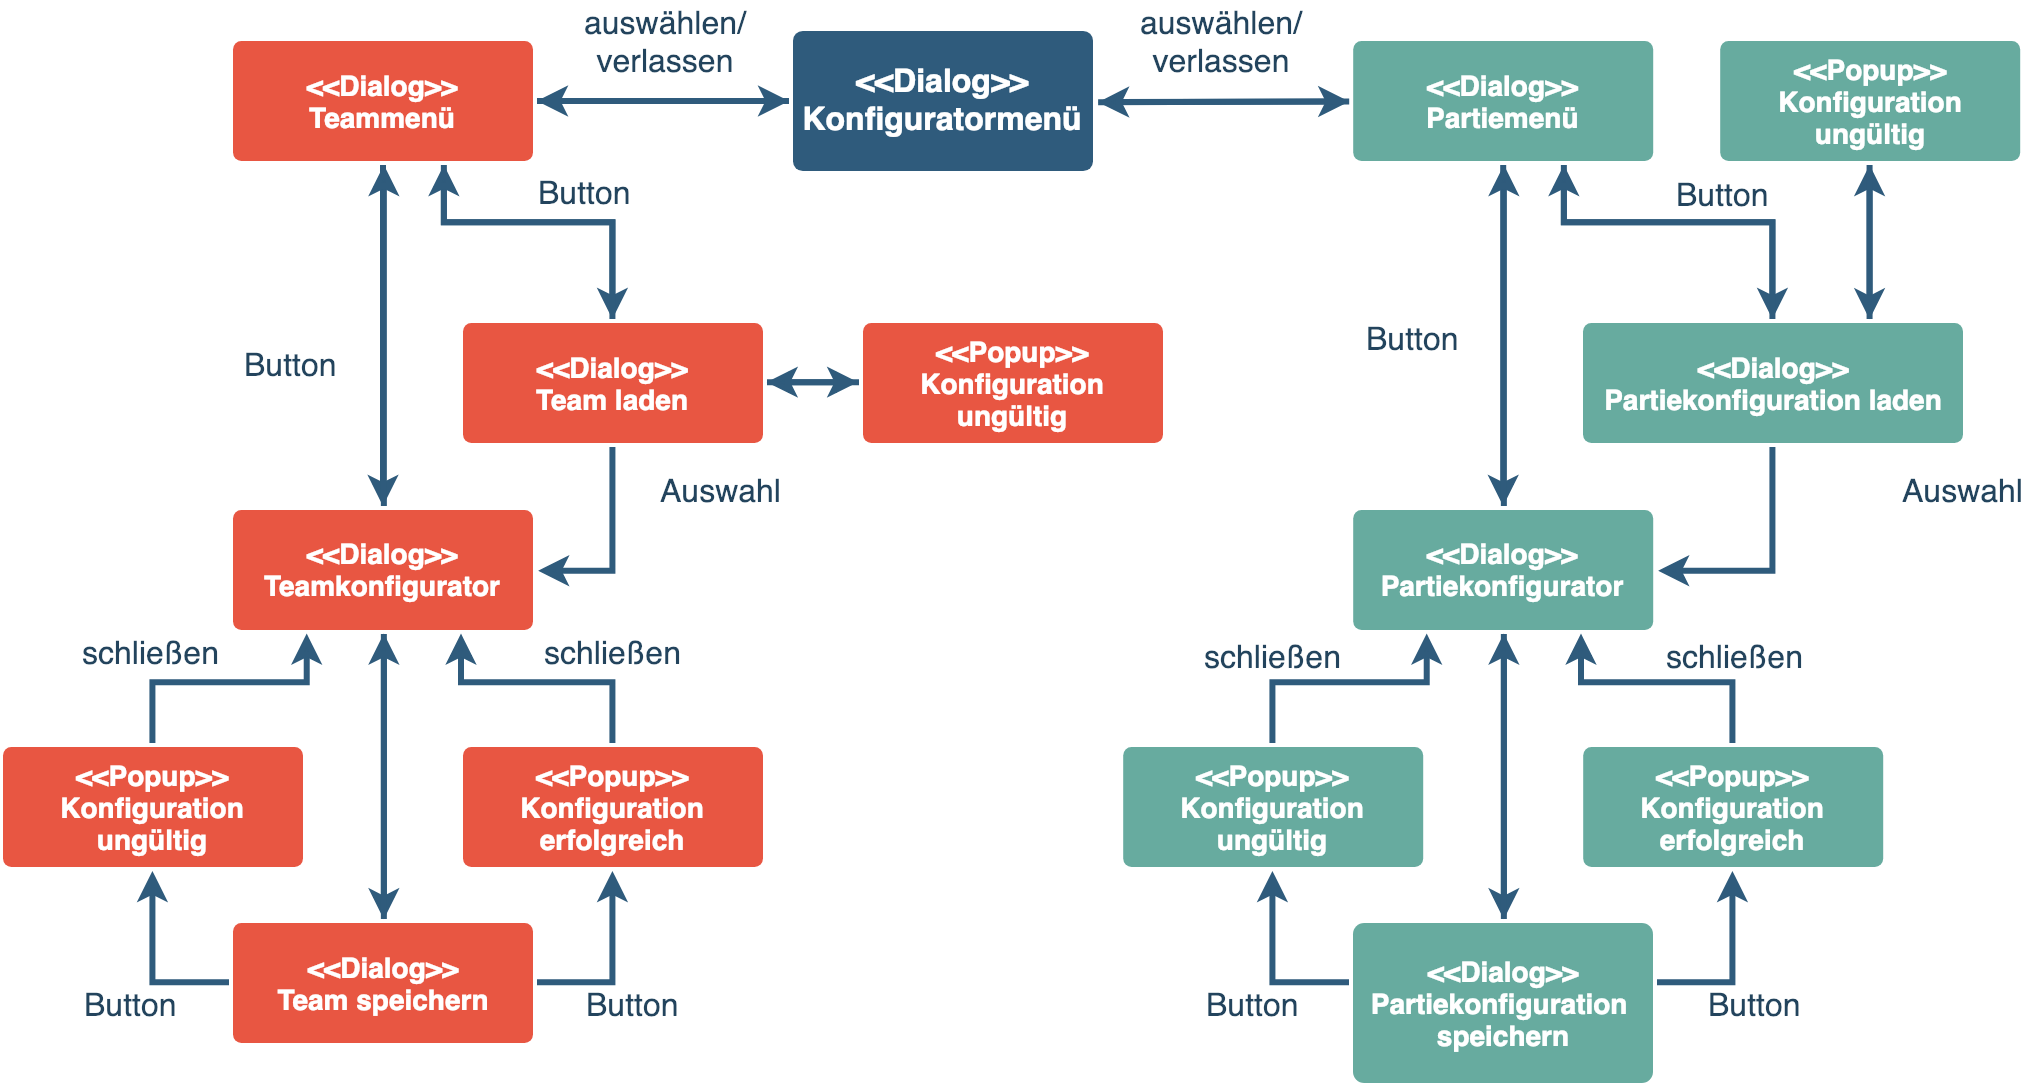
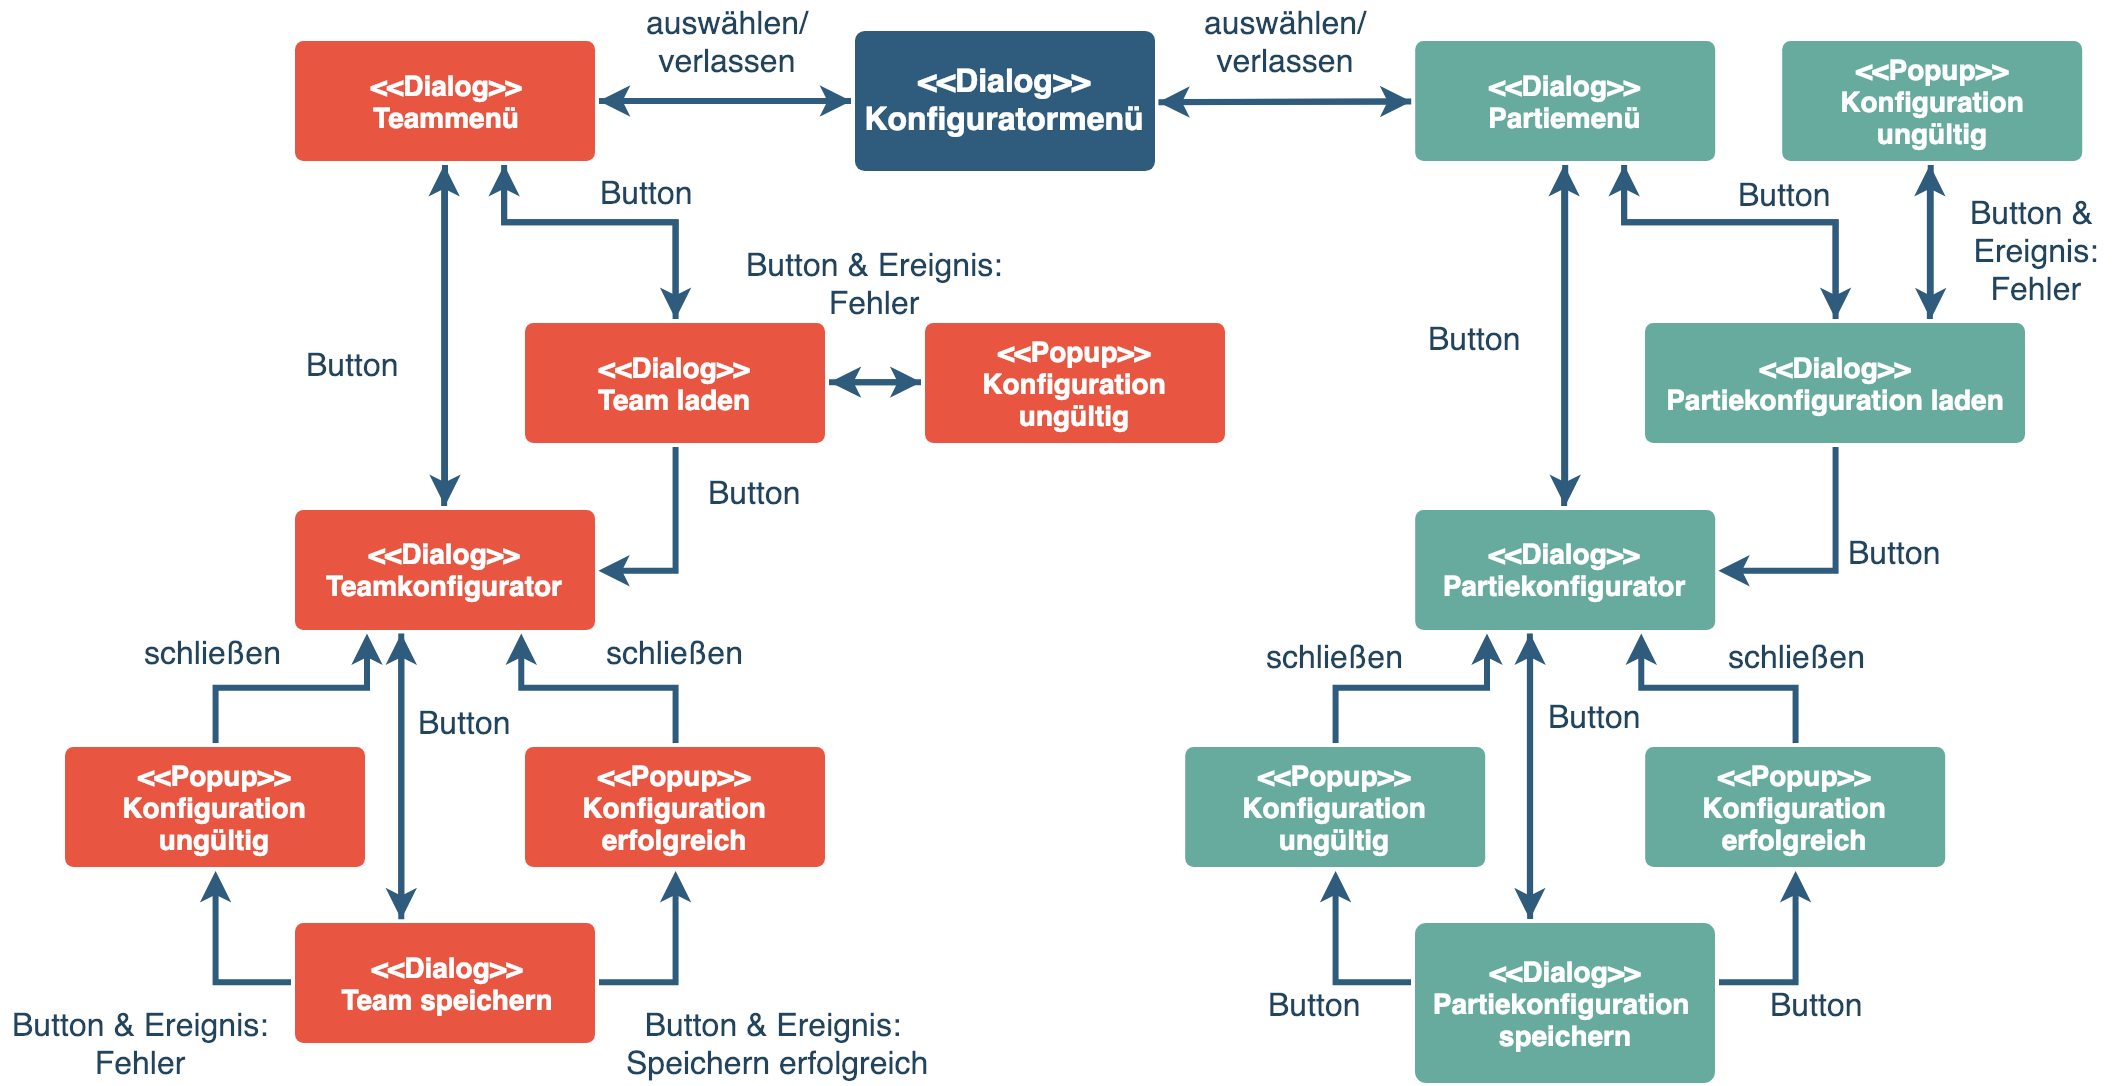
Verbesserungen von Paul eingearbeitet

diff --git a/Meilenstein03/GraphischeGestaltungKonfigurator.tex b/Meilenstein03/GraphischeGestaltungKonfigurator.tex
@@ -7,7 +7,7 @@
         \includegraphics[width=\textwidth/2]{images/konfiguratormenue}
     \end{figure}
 
-    Über das Konfiguratormenü kann eine Auswahl zwischen dem Teammnü und dem Partiemenü über die entsprechenden Buttons getroffen werden. Diese führen zu den Menüs der jeweiligen Konfiguratoren. Über den Button \textit{Verlassen} kann der Konfigurator verlassen werden.
+    Über das Konfiguratormenü kann eine Auswahl zwischen dem Teammenü und dem Partiemenü über die entsprechenden Buttons getroffen werden. Diese führen zu den Menüs der jeweiligen Konfiguratoren. Über den Button \textit{Verlassen} kann der Konfigurator verlassen werden.
 
     \subsubsection{Teammenü}
     \begin{figure}[H]
@@ -34,7 +34,7 @@
         \includegraphics[width=\textwidth]{images/teamkonfigurator}
     \end{figure}
 
-    Im Teamkonfigurator können alle Paramter eines Teams eingestellt werden. Team- und Spielernamen lassen sich durch ein Textfeld bearbeiten. Teamfarben sind über eine Farbauswahl einstellbar. Das Teamlogo lässt sich aus einer Liste vorhandener Logos auswählen. Die Kästen mit den Kreuzen dienen als Platzhalter für Icons, die die verschiedenen Fans und Spieler darstellen und somit unterscheidbar machen. Fans sowie Besen der Spieler sind über eine Dropdown-Auswahl einstellbar. Das Geschlecht der Spieler lässt sich über Radio-Buttons einstellen. Bei jeder Änderung werden die entsprechenden Bedingungen für eine gültige Konfiguration geprüft und der Nutzer erhält visuelles Feedback (z. B. in Form von roter Schriftfarbe in den entsprechenden Feldern). Über den Button \textit{Abbrechen} lässt sich der Konfigurator jederzeit verlassen. Ist eine gültige Auswahl eingestellt, kann die Konfiguration über \textit{Speichern} in einem separaten Speicherdialog persistiert werden.
+    Im Teamkonfigurator können alle Parameter eines Teams eingestellt werden. Team- und Spielernamen lassen sich durch ein Textfeld bearbeiten. Teamfarben sind über eine Farbauswahl einstellbar. Das Teamlogo lässt sich aus einer Liste vorhandener Logos auswählen. Die Kästen mit den Kreuzen dienen als Platzhalter für Icons, die die verschiedenen Fans und Spieler darstellen und somit unterscheidbar machen. Fans sowie Besen der Spieler sind über eine Dropdown-Auswahl einstellbar. Das Geschlecht der Spieler lässt sich über Radio-Buttons einstellen. Bei jeder Änderung werden die entsprechenden Bedingungen für eine gültige Konfiguration geprüft und der Nutzer erhält visuelles Feedback (z. B. in Form von roter Schriftfarbe in den entsprechenden Feldern). Über den Button \textit{Abbrechen} lässt sich der Konfigurator jederzeit verlassen. Ist eine gültige Auswahl eingestellt, kann die Konfiguration über \textit{Speichern} in einem separaten Speicherdialog persistiert werden.
 
     \subsubsection{Team bzw. Partiekonfiguration speichern}
 
@@ -45,7 +45,7 @@
 
     In diesem Dialog kann Dateiname und Speicherort der Konfiguration festgelegt werden. Der Button \textit{Abbrechen} bringt den Nutzer direkt zurück in den entsprechen Konfigurator. Durch Klicken auf den Button \textit{Speichern} wird die Datei mit dem gewählten Namen und Speicherort gespeichert.
 
-    Wurde versucht eine Konfiguration mit ungültigen Parametern zu speichern oder trat beim Speichervorgang irgend ein anderer Fehler auf, wird der Nutzer über dieses Popup darüber informiert. Der \textit{Ok}-Button führt zurück zum entsprechenden Konfigurator.
+    Wurde versucht eine Konfiguration mit ungültigen Parametern zu speichern oder trat beim Speichervorgang ein Fehler auf, wird der Nutzer über dieses Popup darüber informiert. Der \textit{Ok}-Button führt zurück zum entsprechenden Konfigurator.
 
     \subsubsection{Konfiguration erfolgreich}
 
@@ -63,7 +63,7 @@
         \includegraphics[width=\textwidth/2]{images/konfiguration_ungueltig}
     \end{figure}
 
-    Wurde versucht eine Konfiguration mit ungültigen Parametern zu speichern oder trat beim Speichervorgang irgendein anderer Fehler auf, wird der Nutzer über dieses Popup darüber informiert. Der \textit{Ok}-Button des Popups führt zurück zum entsprechenden Dialog.
+    Wurde versucht eine Konfiguration mit ungültigen Parametern zu speichern oder trat beim Speichervorgang ein Fehler auf, wird der Nutzer über dieses Popup darüber informiert. Der \textit{Ok}-Button des Popups führt zurück zum entsprechenden Dialog.
 
     \subsubsection{Partiemenü}
 
